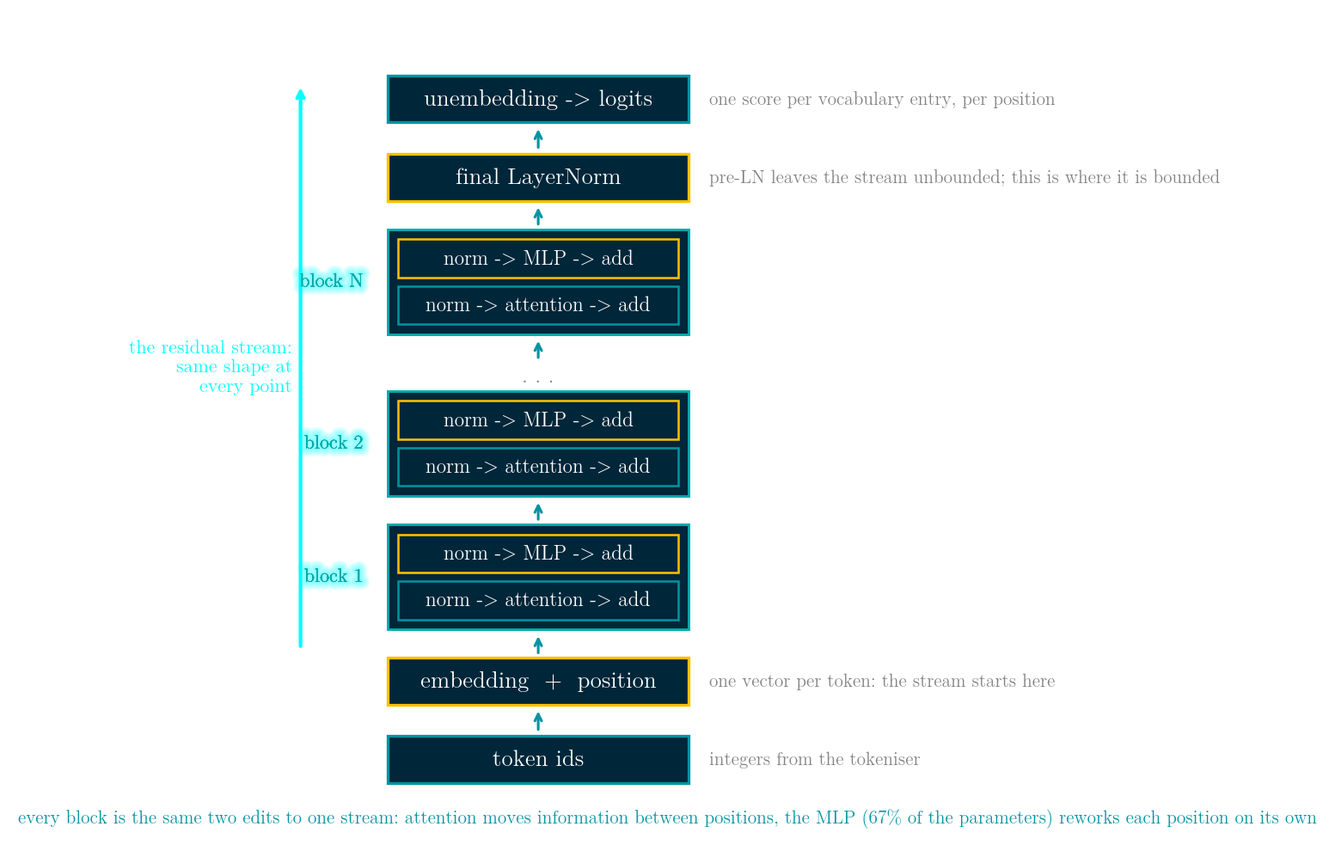
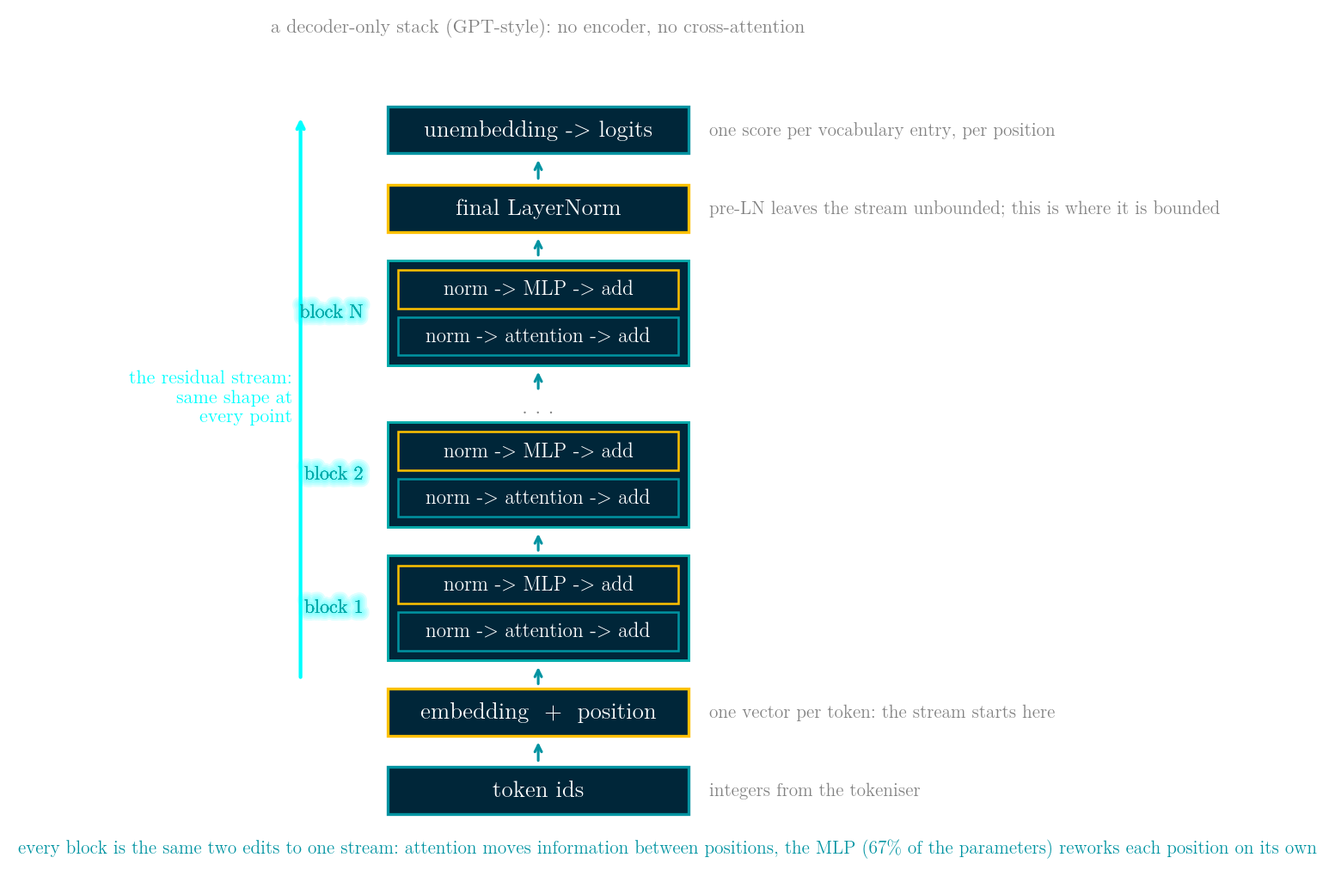
update 52 53

diff --git a/day 52 - attention from scratch/medium_en.html b/day 52 - attention from scratch/medium_en.html
@@ -32,6 +32,15 @@ li     { margin: .3em 0; }
 <p>Attention is a weighted average. That is the whole model: for each query position you score every key position, turn those scores into weights that sum to one, and average the value vectors with those weights. Four lines of numpy.</p>
 <p>Everything that is hard about attention is about computing that average without building the thing it is an average over. At a context of 131,072 tokens the score matrix alone is 1,024 GB for a single layer in fp16, which is not a number you can allocate. The KV cache that lets you skip recomputing the past is 64.0 GB for the same context under plain multi-head attention, and 4.5 GB under MLA. Today is the implementation, the two ways it silently goes wrong, and then the four changes that every serving stack makes to it: FlashAttention, PagedAttention, the MQA/GQA/MLA family, and delta-rule linear attention.</p>
 <p>Day 51 turned text into token ids. This is what the model does with them.</p>
+<h2>How attention works, in one picture</h2>
+<img alt="img" src="https://github.com/KingRei/100DaysPython/blob/master/day%2052%20-%20attention%20from%20scratch/imgs/day52_0.png?raw=true">
+<pre><code>attention(Q, K, V) = softmax(Q K^T / sqrt(d)) V</code></pre>
+<p>Read it right to left and it is a weighted average of <code>V</code>; read it left to right and it is four steps, each of which the figure shows with real numbers from a 4-query, 6-key, head-dimension-8 example.</p>
+<p><strong>One score per pair.</strong> Query row 0 is dotted with each of the six key rows, giving six numbers: +0.20, +0.03, -0.26, +0.69, +1.32, -0.12. A dot product is large when two vectors point the same way, so a score says &quot;how much does this query want to read from that position&quot;. Every pair of positions gets one, which is the <code>n x m</code> matrix the whole memory story of this article is about.</p>
+<p><strong>Divide by sqrt(d).</strong> A score is a sum of <code>d</code> products, so its spread grows with the width of the head. Dividing by <code>sqrt(d)</code> keeps the numbers at roughly unit scale whatever <code>d</code> is - measured further down, without it a 4096-wide head puts an average largest weight of 0.9688 on a single key.</p>
+<p><strong>Softmax turns scores into weights.</strong> Exponentiate and divide by the total: the six weights come out as 0.1269, 0.1065, 0.0799, 0.2059, 0.3886, 0.0923. They are non-negative and sum to 1.00, and position 4 - the one with the highest score - gets the most.</p>
+<p><strong>Multiply by V.</strong> The output row is those weights applied to the six value rows: <code>out = 0.1269 v0 + 0.1065 v1 + ... + 0.0923 v5</code>. Because the weights are non-negative and sum to one, the output is a convex combination of the values and can never leave their range. Attention cannot invent a value; it can only decide how much of each existing one to use.</p>
+<p>That is the whole model. <code>Q</code>, <code>K</code> and <code>V</code> are themselves just linear projections of the input, the mask is one extra line, and everything else in this article is about computing that average without ever building the matrix it averages over.</p>
 <h2>One weighted average</h2>
 <pre><code>def attention(Q, K, V, mask=None, scale=None):
     d = Q.shape[-1]

diff --git a/day 52 - attention from scratch/medium_zh.html b/day 52 - attention from scratch/medium_zh.html
@@ -32,6 +32,15 @@ li     { margin: .3em 0; }
 <p>Attention 就是一個加權平均。整個模型就這件事：每個 query 位置對每個 key 位置算一個分數，把分數變成加總為 1 的權重，再用這些權重去平均 value 向量。四行 numpy。</p>
 <p>難的地方全部不在那條式子，而在「怎麼把這個平均算出來，又不要真的把它要平均的那個東西生出來」。context 長到 131,072 個 token 時，光是一層的分數矩陣在 fp16 下就是 1,024 GB，那不是一個你配置得出來的數字；而讓你不用重算過去的 KV cache，同樣的 context 下用一般的 multi-head attention 是 64.0 GB，用 MLA 是 4.5 GB。今天先把 attention 實作出來，看它兩種不會報錯的壞法，然後看所有推論系統都會對它做的四個改動：FlashAttention、PagedAttention、MQA/GQA/MLA 這一家，以及 delta rule 這種線性 attention。</p>
 <p>Day 51 把文字變成 token id，今天是模型拿到這些 id 之後做的事。</p>
+<h2>一張圖看懂 attention 在做什麼</h2>
+<img alt="img" src="https://github.com/KingRei/100DaysPython/blob/master/day%2052%20-%20attention%20from%20scratch/imgs/day52_0.png?raw=true">
+<pre><code>attention(Q, K, V) = softmax(Q K^T / sqrt(d)) V</code></pre>
+<p>從右往左讀，它就是一個對 <code>V</code> 的加權平均；從左往右讀，它是四個步驟，而圖上每一步都用真實數字跑過一次（4 個 query、6 個 key、head dimension 8）。</p>
+<p><strong>每一對位置一個分數。</strong> 第 0 列的 query 跟六個 key 各做一次內積，得到六個數字：+0.20、+0.03、−0.26、+0.69、+1.32、−0.12。內積在兩個向量方向一致時比較大，所以一個分數講的是「這個 query 有多想讀那個位置」。每一對位置都會有一個，這就是本文後面整篇在算的那個 <code>n x m</code> 矩陣。</p>
+<p><strong>除以 sqrt(d)。</strong> 一個分數是 <code>d</code> 個乘積的和，所以 head 越寬它散得越開。除以 <code>sqrt(d)</code> 可以讓數字不管 <code>d</code> 多大都維持在大約單位尺度——後面量到的是：不除的話，4096 寬的 head 平均會把 0.9688 的權重壓在單一個 key 上。</p>
+<p><strong>softmax 把分數變成權重。</strong> 取指數再除以總和，六個權重變成 0.1269、0.1065、0.0799、0.2059、0.3886、0.0923。它們非負、加總剛好是 1.00，而分數最高的位置 4 拿到最多。</p>
+<p><strong>乘上 V。</strong> 輸出那一列就是用這些權重去加權六列 value：<code>out = 0.1269 v0 + 0.1065 v1 + … + 0.0923 v5</code>。因為權重非負而且加總為 1，輸出是 value 的凸組合，永遠跑不出它們的範圍。attention 生不出新的值，它只能決定每一個既有的值要用多少。</p>
+<p>整個模型就這樣。<code>Q</code>、<code>K</code>、<code>V</code> 本身只是輸入的線性投影，mask 只是多一行，而這篇文章後面全部的內容，都是在講「怎麼把這個平均算出來，又不要真的把它要平均的那個矩陣生出來」。</p>
 <h2>一個加權平均</h2>
 <pre><code>def attention(Q, K, V, mask=None, scale=None):
     d = Q.shape[-1]

diff --git a/day 53 - multi-head attention and the transformer block/medium_zh.html b/day 53 - multi-head attention and the transformer block/medium_zh.html
@@ -35,7 +35,7 @@ li     { margin: .3em 0; }
 <p>Day 52 做的是 attention 本身，今天是包著它的那一層和那個 block。</p>
 <h2>整個架構長什麼樣，以及為什麼是這個樣子</h2>
 <img alt="img" src="https://github.com/KingRei/100DaysPython/blob/master/day%2053%20-%20multi-head%20attention%20and%20the%20transformer%20block/imgs/day53_0.png?raw=true">
-<p>token id 進來，embedding 把每個 token 變成一個向量，N 個長得一模一樣的 block 輪流在這組向量上「改一點東西」，最後一個 LayerNorm 把它收住，unembedding 再把每個向量變成「每個詞表項目一個分數」。這裡真正在做事的只有五個設計決定，而每一個都換到很具體的東西。</p>
+<p>這是 <strong>decoder-only</strong> 的堆疊，也就是 GPT 這一類語言模型的長相。2017 年那篇論文還有一個 encoder，而且每個 decoder block 裡多一層 cross-attention 去讀 encoder 的輸出——那是翻譯模型需要的東西；只要模型做的事是「把自己的文字接下去」，這兩樣就都會被拿掉，剩下的就是上面這張圖。token id 進來，embedding 把每個 token 變成一個向量，N 個長得一模一樣的 block 輪流在這組向量上「改一點東西」，最後一個 LayerNorm 把它收住，unembedding 再把每個向量變成「每個詞表項目一個分數」。這裡真正在做事的只有五個設計決定，而每一個都換到很具體的東西。</p>
 <p><strong>一條固定寬度的流。</strong> 每個 block 吃 <code>(n, d_model)</code>、吐 <code>(n, d_model)</code>——後面量的例子就是 <code>(16, 64)</code> 進、<code>(16, 64)</code> 出。「疊 32 層」因此只是一句話而不是一次重新設計：只有一種形狀要實作、只有一種形狀要切到多張卡上、而且任何地方都插得進一個新層。</p>
 <p><strong>block 是往流上「加」而不是「換掉」。</strong> 一個輸出全零的分支會讓模型完全不變，所以新加的 block 一開始就是什麼都不做，它只需要學一個修正量。代價是這條流變成一個連加、會隨深度長大——後面量到 32 層從 32.0 長到 197.0——而那些 normalisation 和初始化縮放存在的理由就是控制這件事。</p>
 <p><strong>位置之間的資訊只在一個地方交換。</strong> 整個堆疊裡只有 attention 會去讀別的位置；MLP、norm、unembedding 全都是一次只處理一個位置。光是這一條限制就決定了三件事：一個 causal mask 就足以讓模型變成自迴歸的、KV cache 之所以可能（只有 attention 會回頭看），以及成本為什麼會乾淨地分成「跟 context 成正比」和「跟 context 平方成正比」兩半。</p>

diff --git a/day 53 - multi-head attention and the transformer block/medium_en.html b/day 53 - multi-head attention and the transformer block/medium_en.html
@@ -35,7 +35,7 @@ li     { margin: .3em 0; }
 <p>Day 52 built attention. This is the layer and the block around it.</p>
 <h2>The shape of the whole thing, and why it is that shape</h2>
 <img alt="img" src="https://github.com/KingRei/100DaysPython/blob/master/day%2053%20-%20multi-head%20attention%20and%20the%20transformer%20block/imgs/day53_0.png?raw=true">
-<p>Token ids come in, one vector per token comes out of the embedding, N identical blocks each edit that set of vectors, a final LayerNorm bounds it, and an unembedding turns each vector into one score per vocabulary entry. Five design decisions do all the work here, and each one buys something specific.</p>
+<p>This is the decoder-only stack - what GPT-style language models are. The 2017 paper also had an encoder and a cross-attention sub-layer in each decoder block, which is what a translation model needs; a model that only continues its own text drops both, and what is left is the picture above. Token ids come in, one vector per token comes out of the embedding, N identical blocks each edit that set of vectors, a final LayerNorm bounds it, and an unembedding turns each vector into one score per vocabulary entry. Five design decisions do all the work here, and each one buys something specific.</p>
 <p><strong>One stream of a fixed width.</strong> Every block takes <code>(n, d_model)</code> and returns <code>(n, d_model)</code> - measured below, <code>(16, 64)</code> in and <code>(16, 64)</code> out. That is what makes &quot;stack 32 of them&quot; a sentence rather than a redesign: there is exactly one shape to implement, one shape to shard across devices, and one place where a new layer can be inserted.</p>
 <p><strong>Blocks add to the stream instead of replacing it.</strong> A branch that outputs zero leaves the model exactly as it was, so a new block starts as a no-op and only has to learn a correction. The price is that the stream is a running sum and grows with depth - from 32.0 to 197.0 over 32 blocks in the measurement further down - which is what the normalisations and the initialisation scaling are there to control.</p>
 <p><strong>Information crosses between positions in exactly one place.</strong> Attention is the only operation in the whole stack that reads other positions; the MLP, the norms and the unembedding all work on one position at a time. That single restriction is why a causal mask is enough to make the model autoregressive, why a KV cache is possible at all (only attention looks back), and why the cost model splits so cleanly into a part linear in the context and a part quadratic in it.</p>

diff --git a/day 52 - attention from scratch/imgs/make_figs.py b/day 52 - attention from scratch/imgs/make_figs.py
@@ -44,6 +44,56 @@ def bars(ax, x0, base, bw, gap, vals, cols, labs, maxh, top=None):
             text(ax, x + bw / 2, base + hh + .22, labs[i], color=cols[i], size=11.5)
 
 
+# ---------------------------------------------------------------- figure 0
+def fig0():
+    """How one output row is produced: scores, softmax, weighted average."""
+    fig, ax = W(6.2)
+    Q, K, V, out, w = A.toy_attention()
+    d = Q.shape[1]
+    scores = Q[0] @ K.T / math.sqrt(d)
+    m = K.shape[0]
+    cw, X0 = 1.18, 1.95
+    text(ax, 5.0, 6.35, 'attention(Q, K, V)  =  softmax( Q K$^{T}$ / $\\sqrt{d}$ ) V',
+         color=TEAL_L, size=16, glowing=False)
+    text(ax, 5.0, 5.82, 'one output row, step by step: query 0 against 6 keys, head '
+                        f'dimension {d}', color=GREY_L, size=11.5, glowing=False)
+    box(ax, 0.35, 4.55, 1.35, 0.55, label='query 0', edge=AMBER, lw=1.7)
+    for j in range(m):
+        box(ax, X0 + j * cw, 4.55, cw * 0.86, 0.55, label=f'key {j}', edge=TEAL, lw=1.5)
+    text(ax, 1.02, 4.12, 'dot product', color=AMBER, size=11, glowing=False)
+    for j in range(m):
+        ax.annotate('', xy=(X0 + j * cw + cw * 0.43, 3.92), xytext=(1.02, 4.40),
+                    arrowprops=dict(arrowstyle='->', color=AMBER, lw=1.0, alpha=.55))
+    text(ax, 1.55, 3.62, 'score / $\\sqrt{d}$', color=TEAL, size=11.5, ha='right',
+         glowing=False)
+    for j in range(m):
+        text(ax, X0 + j * cw + cw * 0.43, 3.62, f'{scores[j]:+.2f}', color=TEAL_L,
+             size=12)
+    text(ax, 1.55, 3.12, 'softmax', color=TEAL, size=11.5, ha='right', glowing=False)
+    for j in range(m):
+        ax.annotate('', xy=(X0 + j * cw + cw * 0.43, 3.24),
+                    xytext=(X0 + j * cw + cw * 0.43, 3.42),
+                    arrowprops=dict(arrowstyle='->', color=TEAL, lw=1.1, alpha=.6))
+    base, maxh = 1.55, 1.35
+    for j in range(m):
+        hh = maxh * w[0, j] / w[0].max()
+        x = X0 + j * cw + cw * 0.10
+        ax.add_patch(Rectangle((x, base), cw * 0.66, hh, facecolor=TEAL,
+                               edgecolor=TEAL, lw=1.2, alpha=.85, zorder=3))
+        text(ax, x + cw * 0.33, base + hh + 0.24, f'{w[0, j]:.4f}', color=TEAL_L,
+             size=11.5)
+        text(ax, x + cw * 0.33, base - 0.26, f'v {j}', color=GREY_L, size=11,
+             glowing=False)
+    text(ax, 1.55, base + 0.55, 'weight', color=TEAL, size=11.5, ha='right',
+         glowing=False)
+    text(ax, 5.0, 0.92, f'the six weights sum to {w[0].sum():.2f}, so the output row is '
+                        f'a weighted average of the six value rows',
+         color=TEAL, size=11.5, glowing=False)
+    text(ax, 5.0, 0.46, 'attention cannot invent a value - it only decides how much of '
+                        'each one to use', color=CYAN, size=12.5)
+    save(fig, 'day52_0.png')
+
+
 # ---------------------------------------------------------------- figure 1
 def fig1():
     """The weight matrix: one number per pair, every row a distribution."""
@@ -238,6 +288,6 @@ def fig6():
 
 
 if __name__ == '__main__':
-    for f in (fig1, fig2, fig3, fig4, fig5, fig6):
+    for f in (fig0, fig1, fig2, fig3, fig4, fig5, fig6):
         f()
         print(f.__name__, 'ok')

diff --git a/day 53 - multi-head attention and the transformer block/imgs/make_figs.py b/day 53 - multi-head attention and the transformer block/imgs/make_figs.py
@@ -91,6 +91,8 @@ def fig0():
                 arrowprops=dict(arrowstyle='->', color=CYAN, lw=2.2))
     text(ax, SX - W2 / 2 - 1.15, (ytop + y) / 2, 'the residual stream:\nsame shape at\nevery point',
          color=CYAN, size=11.5, ha='right')
+    text(ax, SX, y + 0.95, 'a decoder-only stack (GPT-style): no encoder, no cross-attention',
+         color=GREY_L, size=11.5, glowing=False)
     p = T.block_params(4096)
     text(ax, 5.0, 0.18,
          f'every block is the same two edits to one stream: attention moves information '

diff --git a/ROADMAP.md b/ROADMAP.md
@@ -112,7 +112,7 @@
 | Day | 主題 | 備註 |
 |---|---|---|
 | 51 | BPE Tokenizer 從零實作 ✅ | **本日核心：模型從來沒看過你的文字，它看到的是一串整數，而決定那串整數長什麼樣的是一份「照順序重播」的合併清單**。開場即結論：`tokens` 要 **3 個 token**、` tokens`（前面一個空格）只要 **1 個**——開頭的空格對 tokenizer 不是空白而是詞的一部分。一句話四種長度："the cost of a model call is counted in tokens" ＝ **10 詞／45 字元／45 位元組／12 token**，四個互相算不出來，而計費與 context window 用的是最後一個；`call` 被切成 ` ca`＋`ll`（語料沒讓 ` call` 合併），**模型永遠看不到 call 這個詞**。**byte-level 的意義**：256 個位元組全在 vocab 裡 ⇒ 沒有 unknown token，代價轉嫁到長度：'a' 1 byte 1 token、'é' 2、'模' 3、'🙂' 4；中文句 13 字元／39 bytes／**32 token** vs 英文句 38 字元／38 bytes／**17 token**＝**1.9 倍**，每字元 2.46 vs 0.45＝**5.5 倍**。**訓練三行**：數相鄰 pair、合併最高票、重複。前八輪 ' t'(41)／'en'(29)／'er'(29)／' i'(26)／' th'(21)／'co'(20)／'ok'(17)／'oken'(16)；第五輪起「合併疊合併」、第八輪是兩個合併符號再合併；**143 次合併後停**（vocab 399），因為沒有 pair 再出現第二次。**#1 最高票通常不只一個**：143 步裡 **123 步（86%）平手**，第一次就在第 2 步（'en' 與 'er' 都是 29）。挑哪個都合理，但挑完那一對附近的計數會變、兩個 tokenizer 從此分家（換別的平手規則：141–143 次合併、500–504 個 token，**壓縮只差幾個 token 不是「一樣好」**） ⇒ **平手規則是規格不是細節**（本檔取 id 最小：`key=(count, -a, -b)`），沒有它 vocabulary 會跟 dict 插入順序跑。→ LC 692。**#2 編碼是照 rank 重播不是最長匹配**：' counted' 8 bytes 依序套用第 6/15/19/25/32/34 號合併 → 2 個 token；**只給 token 字串表、用最長匹配切會得到不同輸出**，所以隨模型發佈的是有順序的合併清單。**#3 逐 token 解碼**：'模型看到的' 15 bytes／13 token，**12 個單獨不是合法 UTF-8**；先接起來再 decode 一次得原文，一個一個 decode 再接得到一排替換字元，而 `errors='replace'` 正是它不丟例外的原因（逐 token 串流最常撞到，正解是把不完整的位元組留在手上）。**最該測的性質是 round trip**（check() 另外還驗五件事：id 連續、合併 token＝兩個來源接起來、重跑同一份清單等）。**#4 pre-tokenise 的 regex 決定什麼可以當 token**：拿掉它（整份當一塊）壓縮幾乎一樣（0.3934 vs 0.3918），但 **144 個合併裡有 12 個產生中間夾空格的 token**（' is not '、't in'、't is '、' the tokeniz'）vs 有 regex 時 **0 個**；那種 token 讓一個詞取決於後面接什麼 ⇒ 同一個詞不同 id、模型要學兩次。數字規則 `\d{1,3}` ⇒ '128'→2、'1280'→3、'128000'→3 個 token＝模型算術怪的來源。**vocab 曲線**：256/300/350/399 → tokens/byte 1.0000/0.6011/0.4687/**0.3918**（短了 61%），greedy 先拿大的所以會變平。**接 Day 38**：Huffman 合併**最不常**的兩個符號（這些位元組 4.6928 bits/byte，1,276→749 bytes，字母表不變、編碼變短）；BPE 合併**最常**的那一對（1,276 bytes→500 token，序列變短、字母表長到 399）。同一個貪婪動作、次數表的兩端、兩個不可互換的目標。**LC 692**：最高票 k 個、平手照字母序；一個 key 裝兩條規則 `(-count, word)`；**heap 版要把兩個欄位同時反過來**（淘汰「次數最少、同次數字母序最後」），普通 tuple 做不到，要包一層反 `__lt__` 的類別。**LC 394**：一個 stack，每個 `[` 推「目前的 cur」與「等著它的次數」，`]` 才展開；兩個坑＝`num = num*10 + d`（多位數）與 `]` 之後字元接回同一個 buffer。**實作踩點**：`pretokenize/train/encode` 都吃 `pattern=` 參數而不是改模組全域（notebook 的 cell 沒有 `import bpe` 可用，改全域會炸）；demo 的 token 條要依總寬度縮放（12 個 token 直接畫會衝出 9.8）；**圖裡不能放 CJK**（Liberation Serif／Latin Modern 都沒有該字形，會變方框），day51_5 改用 '€5 café €9' 示範同一件事（15 bytes／13 token／8 個單獨非法），**文章要加一句說明圖換了例子**，否則內文的 12 跟圖上的 8 會打架。**verifier 另抓到**：LC692 第二個例子（the4/is3/sunny2/day1）根本沒有平手，demo 旁白原本寫「is 和 sunny 都 2 次」是錯的；「tokenizer 是模型裡唯一不是梯度下降學的一層」要改成「整條流程裡唯一不是梯度下降學的部分」（它不是 layer，而且 RoPE／sampler 也不是學的）；LC394 的空間是 O(輸出長度) 不是 O(巢狀深度)；「普通 tuple 做不到」要限定成「`(count, word)` 這種 tuple 做不到」。→ 後面用得到：Attention 吃的就是這裡吐出來的整數序列；而「合併清單要照順序重播」這個形狀，在之後任何「學到的表要跟模型一起發佈」的地方都會再出現 |
-| 52 | Attention、FlashAttention、PagedAttention 與 MLA ✅ | **本日核心：attention 就是一個加權平均，貴的東西全部來自「每一對位置一格」——所以整天在做的是「怎麼算出這個平均，又不要把它要平均的那個東西生出來」**。四行：`scores = Q@K.T/sqrt(d)` → mask → softmax → `w@V`；每一列非負且加總為 1 ⇒ 輸出永遠是 V 的凸組合（V 範圍 [-0.634,-1.504,-1.052]..[1.107,0.519,1.721]，out 只到 [0.332,-0.667,-0.07]..[0.42,-0.24,0.112]）＝**attention 生不出新的值，只能決定每個舊的值用多少**。**silent failure #1：exp 吃大數**——fp32 上限 3.403e+38 而 exp(89) 已 inf、fp16 上限 65504 而 exp(12) 已 inf，`softmax_naive([1000,1001,999])` 回 nan（inf/inf），減列最大值是**精確恆等式不是近似**（c 在分子分母抵消）→ [0.2447,0.6652,0.09]；fp16 只要 logit 12 就踩到。**除 sqrt(d) 是量出來的**：d=8/64/512/4096 的分數標準差 2.846/7.911/22.563/64.109 貼著 sqrt(d) 2.83/8/22.63/64，平均最大權重未縮放 0.3221/0.7067/0.9048/**0.9688**（＝argmax，其他 key 幾乎拿不到梯度）、除過之後 0.0437/0.0404/0.0423/0.0428（寬度差 512 倍仍在 0.04）。**#2：mask 放 softmax 之後**——列和從全 1 變成 [0.0504,0.5048,0.0618,0.9274,0.826,1.]，第 0 列只看得到自己卻只帶 0.0504，**每個早的位置被「它不准看的未來」等比例壓小，不報錯、不是 nan、形狀全對、loss 照降**。**FlashAttention＝online softmax**：一塊一塊走 K/V，每列只帶 running max 與 running sum，最大值一變就把已累積的乘 `exp(old_max-new_max)`；block 1/8/32/128/256 與完整矩陣差 6.661e-16/3.886e-16/3.608e-16/3.886e-16/4.996e-16＝**精確改寫不是近似**（所以沒有「準確度」那一欄要查，改的只有記憶體與速度）。**二次方帳單**（fp16、32 head）：context 1,024/4,096/16,384/131,072 的分數矩陣一層 0.06/1.00/16.00/**1024.00 GB**（32 層 2.0/32.0/512.0/32768.0 GB），context×4 則×16；FlashAttention 消掉的是**儲存**不是工作量（記憶體變線性、算術仍二次方）。**PagedAttention＝配置器問題**：8 條序列共 3,509 token、每條可能長到 4,096 ⇒ 連續配置保留 32,768 格、**89.3% 空的**；每頁 16/64/256 → 浪費 1.2%(222 頁)/7.1%(59)/**27.9%(19)**，剩下的浪費只有「最後一頁的尾巴」最多 page_size−1 格 ⇒ **頁太大浪費會回來**（頁大小是在尾巴與頁表之間選）；代價是 attention 要查頁表，好處是兩條序列可共用前綴頁（＝作業系統的分頁、同一個理由）。**MHA/GQA/MLA/MQA**（32 層、32 head、head_dim 128、fp16）：每 token 524,288/131,072/36,864/16,384 bytes ＝ 128k context 下 64.0/16.0/4.5/2.0 GB（1/4/14.2/32 倍）；**各自放棄什麼才是重點**——MQA 讓 32 個 head 共讀同一份 K/V（head 失去注意不同東西的能力）、GQA 是四個一組的同一個取捨、MLA 每 token 存一個低秩 latent 讀時重建（head 保持相異，代價是讀時多算＋**rotary 的部分要另走一條小路**，因為它摺不進 latent）。四個都還是隨 context 長大。**delta rule＝寫進一個固定大小的狀態**：`S <- S(I-beta k kᵀ) + beta v kᵀ`、讀是 `S@q`（**真正的層用自己的 query 投影讀；`S@k` 只是 recall 探針**），32 層狀態 **32 MB 且永遠 32 MB**；16x16 狀態寫 8/16/17/24/32 對正交 pair → 最差回想誤差 1e-12/1e-12/1.33/1.69/1.87、被蓋掉 0/0/**1**/8/16（d 維空間最多 d 個互相正交的方向；**那個 1e-12 是程式正規化 key 時加的 epsilon 不是浮點雜訊**，別寫成「誤差在浮點等級」），**最新寫的永遠完美（1.8e-12）、死的是舊的**；而這是最好情況——**換成一般隨機 key，8 對就已經有 1.66 的最差誤差**（每次寫入都把已在裡面的抹糊）。⇒ 取捨不是「線性 attention 比較差」而是**常數記憶體 vs 有上限的回想**；gated 版加遺忘係數讓舊關聯衰減而不是等著被蓋掉（**Gated DeltaNet 是每 head 一個純量、per-channel 的對角 gate 是 KDA 才有的，別混成一句**），所以實務上是**跟少數幾層完整 attention 交錯**而不是取代。**LC 239** 單調 deque（新來的又大又新 ⇒ 尾巴上比它小的永遠出局；每個 index 進出各一次 ⇒ O(n)、狀態 O(k)）＝**online softmax 的同一招**（帶一個數字而不是整列，數字一變就補正）；brute force `O(n*k)` 在 n=1e5 是 1e10 次、heap 要 O(n log k) 得能刪掉離開視窗的那個。**LC 703** size-k min-heap（堆頂＝第 k 大，比堆頂小的一進來就丟）；**陷阱是用哪一種 heap**——全部丟進 max-heap 也答得對，但記憶體 O(n)、每次 O(k log n)，**會過測試而且是對這題的錯誤答案**。**工程紀律（這天真的踩到）**：`main()` 原本共用一條 `rng`，導致 demo/圖的生成腳本另外呼叫時拿到**不同的數字**（SCALE 0.3047 vs 0.3070、FLASH 5.551e-16 vs 1.221e-15）；修法是把每張表抽成**自己 seed 的函式**（`toy_attention/scale_table/causal_demo/flash_table`）給 main、make_figs、demo 常數產生器共用，而且 `scale_table` 必須**per-d seed**（`default_rng([seed, d])`），否則四列的表和十一點的曲線在共用的 d 上會對不起來。demokit：legend 是 `[hex, {zh,en}]` **不是 `{c,t}`**、variants 是 `{zh,en}` 清單且每個 variant 的程式碼要靠 `get code(){ return curV()===0 ? A : B; }`、表格排成直的會掉出 view（6.4）⇒ 改橫排。→ 後面用得到：KV cache 的分頁與前綴共用、投機解碼要帶著的那份 state、以及任何「一趟掃完、狀態有上限」的 streaming 演算法 |
+| 52 | Attention、FlashAttention、PagedAttention 與 MLA ✅ | **開頭先放一張「attention 怎麼運作」的圖（day52_0）＋公式**（Eric 要求）：query 0 對 6 個 key 的分數 +0.20/+0.03/−0.26/+0.69/+1.32/−0.12 → 除 sqrt(d) → softmax → 權重 0.1269/0.1065/0.0799/0.2059/0.3886/0.0923（和 1.00）→ 加權平均 V。**本日核心：attention 就是一個加權平均，貴的東西全部來自「每一對位置一格」——所以整天在做的是「怎麼算出這個平均，又不要把它要平均的那個東西生出來」**。四行：`scores = Q@K.T/sqrt(d)` → mask → softmax → `w@V`；每一列非負且加總為 1 ⇒ 輸出永遠是 V 的凸組合（V 範圍 [-0.634,-1.504,-1.052]..[1.107,0.519,1.721]，out 只到 [0.332,-0.667,-0.07]..[0.42,-0.24,0.112]）＝**attention 生不出新的值，只能決定每個舊的值用多少**。**silent failure #1：exp 吃大數**——fp32 上限 3.403e+38 而 exp(89) 已 inf、fp16 上限 65504 而 exp(12) 已 inf，`softmax_naive([1000,1001,999])` 回 nan（inf/inf），減列最大值是**精確恆等式不是近似**（c 在分子分母抵消）→ [0.2447,0.6652,0.09]；fp16 只要 logit 12 就踩到。**除 sqrt(d) 是量出來的**：d=8/64/512/4096 的分數標準差 2.846/7.911/22.563/64.109 貼著 sqrt(d) 2.83/8/22.63/64，平均最大權重未縮放 0.3221/0.7067/0.9048/**0.9688**（＝argmax，其他 key 幾乎拿不到梯度）、除過之後 0.0437/0.0404/0.0423/0.0428（寬度差 512 倍仍在 0.04）。**#2：mask 放 softmax 之後**——列和從全 1 變成 [0.0504,0.5048,0.0618,0.9274,0.826,1.]，第 0 列只看得到自己卻只帶 0.0504，**每個早的位置被「它不准看的未來」等比例壓小，不報錯、不是 nan、形狀全對、loss 照降**。**FlashAttention＝online softmax**：一塊一塊走 K/V，每列只帶 running max 與 running sum，最大值一變就把已累積的乘 `exp(old_max-new_max)`；block 1/8/32/128/256 與完整矩陣差 6.661e-16/3.886e-16/3.608e-16/3.886e-16/4.996e-16＝**精確改寫不是近似**（所以沒有「準確度」那一欄要查，改的只有記憶體與速度）。**二次方帳單**（fp16、32 head）：context 1,024/4,096/16,384/131,072 的分數矩陣一層 0.06/1.00/16.00/**1024.00 GB**（32 層 2.0/32.0/512.0/32768.0 GB），context×4 則×16；FlashAttention 消掉的是**儲存**不是工作量（記憶體變線性、算術仍二次方）。**PagedAttention＝配置器問題**：8 條序列共 3,509 token、每條可能長到 4,096 ⇒ 連續配置保留 32,768 格、**89.3% 空的**；每頁 16/64/256 → 浪費 1.2%(222 頁)/7.1%(59)/**27.9%(19)**，剩下的浪費只有「最後一頁的尾巴」最多 page_size−1 格 ⇒ **頁太大浪費會回來**（頁大小是在尾巴與頁表之間選）；代價是 attention 要查頁表，好處是兩條序列可共用前綴頁（＝作業系統的分頁、同一個理由）。**MHA/GQA/MLA/MQA**（32 層、32 head、head_dim 128、fp16）：每 token 524,288/131,072/36,864/16,384 bytes ＝ 128k context 下 64.0/16.0/4.5/2.0 GB（1/4/14.2/32 倍）；**各自放棄什麼才是重點**——MQA 讓 32 個 head 共讀同一份 K/V（head 失去注意不同東西的能力）、GQA 是四個一組的同一個取捨、MLA 每 token 存一個低秩 latent 讀時重建（head 保持相異，代價是讀時多算＋**rotary 的部分要另走一條小路**，因為它摺不進 latent）。四個都還是隨 context 長大。**delta rule＝寫進一個固定大小的狀態**：`S <- S(I-beta k kᵀ) + beta v kᵀ`、讀是 `S@q`（**真正的層用自己的 query 投影讀；`S@k` 只是 recall 探針**），32 層狀態 **32 MB 且永遠 32 MB**；16x16 狀態寫 8/16/17/24/32 對正交 pair → 最差回想誤差 1e-12/1e-12/1.33/1.69/1.87、被蓋掉 0/0/**1**/8/16（d 維空間最多 d 個互相正交的方向；**那個 1e-12 是程式正規化 key 時加的 epsilon 不是浮點雜訊**，別寫成「誤差在浮點等級」），**最新寫的永遠完美（1.8e-12）、死的是舊的**；而這是最好情況——**換成一般隨機 key，8 對就已經有 1.66 的最差誤差**（每次寫入都把已在裡面的抹糊）。⇒ 取捨不是「線性 attention 比較差」而是**常數記憶體 vs 有上限的回想**；gated 版加遺忘係數讓舊關聯衰減而不是等著被蓋掉（**Gated DeltaNet 是每 head 一個純量、per-channel 的對角 gate 是 KDA 才有的，別混成一句**），所以實務上是**跟少數幾層完整 attention 交錯**而不是取代。**LC 239** 單調 deque（新來的又大又新 ⇒ 尾巴上比它小的永遠出局；每個 index 進出各一次 ⇒ O(n)、狀態 O(k)）＝**online softmax 的同一招**（帶一個數字而不是整列，數字一變就補正）；brute force `O(n*k)` 在 n=1e5 是 1e10 次、heap 要 O(n log k) 得能刪掉離開視窗的那個。**LC 703** size-k min-heap（堆頂＝第 k 大，比堆頂小的一進來就丟）；**陷阱是用哪一種 heap**——全部丟進 max-heap 也答得對，但記憶體 O(n)、每次 O(k log n)，**會過測試而且是對這題的錯誤答案**。**工程紀律（這天真的踩到）**：`main()` 原本共用一條 `rng`，導致 demo/圖的生成腳本另外呼叫時拿到**不同的數字**（SCALE 0.3047 vs 0.3070、FLASH 5.551e-16 vs 1.221e-15）；修法是把每張表抽成**自己 seed 的函式**（`toy_attention/scale_table/causal_demo/flash_table`）給 main、make_figs、demo 常數產生器共用，而且 `scale_table` 必須**per-d seed**（`default_rng([seed, d])`），否則四列的表和十一點的曲線在共用的 d 上會對不起來。demokit：legend 是 `[hex, {zh,en}]` **不是 `{c,t}`**、variants 是 `{zh,en}` 清單且每個 variant 的程式碼要靠 `get code(){ return curV()===0 ? A : B; }`、表格排成直的會掉出 view（6.4）⇒ 改橫排。→ 後面用得到：KV cache 的分頁與前綴共用、投機解碼要帶著的那份 state、以及任何「一趟掃完、狀態有上限」的 streaming 演算法 |
 | 53 | Multi-Head Attention 與 Transformer Block ✅ | **開頭先放整個架構圖（day53_0）＋「為什麼這樣設計」五條**（Eric 要求）：固定寬度的流讓疊層變成免費、block 是加不是換（新層一開始＝no-op，代價是流會長大）、**整個堆疊只有 attention 會讀別的位置**（causal mask 夠用／KV cache 可能／成本乾淨分兩半）、其餘全逐位置所以訓練可整條序列平行、容量放在逐位置那半（MLP 67%，所以 MoE 換的是 MLP）。**本日核心：一個 block 只有兩個混合器（attention 跨位置、MLP 跨通道），兩者都「加進」同一條形狀不變的殘差流；而今天兩個最常見的寫錯方式，都會交回一個形狀完全正確的陣列**。d_model 64／8 head／16 token：輸入 (16,64) 出來還是 (16,64)，attention 分支的範數是它讀到那條流的 0.354 倍、整個 block 移動 0.772。**h 不花任何參數**：Wq/Wk/Wv/Wo 永遠四個 d_model×d_model（這裡 16,384 個參數），h=1/2/4/8/16/64 只改 d_head 64/32/16/8/4/1 與「每層產生幾個 n×n 權重矩陣」。**head 買到的是「同時做好幾件事」**：目標＝一半通道要前一個 token、一半要第一個 token，兩個 head 在 12 組輸入上都 MSE 0.0；單一 head 停在 **0.1446**（全猜 0 是 0.8746）。**第一版這個實驗是作弊的（verifier 抓到）**：只擬合 row-stochastic 的 A、沒給 head 自己的通道矩陣，而真的 head 有 Wv·Wo＝一個 d×d 矩陣——補上之後 n=d=8 的**單一輸入只要解 (A V) M = target 就能配到 MSE 5.7e-30（A 隨機都行）**，所以必須(1)給它通道矩陣、(2)量多組輸入。改好後的說法是：單一 head 真正做不到的是**對不同通道用不同的注意力矩陣**，不是「只有一個權重矩陣」這種含糊講法。**silent failure #1：head 切錯軸**——正解是 `X.reshape(n,h,d//h).transpose(1,0,2)`（切通道），少了 transpose 的 `X.reshape(h,n,d//h)` **形狀一模一樣**但切位置（head 0 拿到前兩個 token 的全部通道），每個 head 只在半條序列裡做 attention；16×64×8head 下層輸出最大差 **1.911＝輸出範數的 153%**，不報錯、照樣訓練。抓法只有一行 assert：head j == X[:, j*d_head:(j+1)*d_head]。**#2：LayerNorm 的一趟變異數 `E[x²]−E[x]²`**——float32、512 個標準常態值整排加常數：位移 0/100/1,000/10,000/100,000/1,000,000 時兩趟版本 1.019437/1.019437/1.019434/1.019408/1.019417/1.020317（幾乎不動），一趟版本 1.019437/1.018555/1.062500/**−8.000000**/1024.0/0.0；**10,000 就已經是負變異數（開根號 nan），而那時陣列裡還有 475 個相異 float32 值＝壞的是恆等式不是資料**；1e8 以上整份資料才真的被吃掉（所以表格停在 1e6）。在變負之前它是**安靜地壞**：根號裡的 eps 讓它保持有限，只是用錯尺度。**LayerNorm vs RMSNorm**：一列平均 6.925／std 1.943，LN 給平均 2.64e-16／std 1.0000、RMS 給 0.9628／0.2701；整列 +100 時 LN 只動 6.13e-15、RMS 動 0.8014 ⇒ RMSNorm 換到少一次 reduction 與少一組 beta，放棄的是**平移不變性**（兩者都有尺度不變性，而那才是殘差流真的會做的事）。**pre-LN vs post-LN（這節原本想講 warmup，量不出來就改寫了）**：post-LN 把 ‖x‖ 釘在 **32.0＝sqrt(16×64)**（block 最後一步就是 norm；**要註明這是 gamma=1/beta=0 的初始化，學出來的 gamma/beta 會改數字、改不掉「深度被消掉」**），pre-LN 從 37.9 長到 **197.0**；擾動影響 7.505 vs 1.104 看似差 7 倍，但**除以各自的流範數後是 0.0381 vs 0.0345 幾乎一樣** ⇒ **不可以寫成「pre-LN 帶比較多訊號」**，只能寫結構差異（pre-LN 有一條從頭到尾沒被正規化的路）＋引文獻（Xiong 2020），並解釋 pre-LN 堆疊為何一定要補最後一個 LayerNorm。**殘差流是連加**：起點 32.0（＝sqrt(16×64)）、32 層後 181.8＝**5.7 倍**，正好是 sqrt(32)=5.66；**分母要用「輸入時的範數」不是 plain[0]（那是第 1 個 block 之後）**，用錯會寫成 4.6 倍再硬說「接近 5.66」。每個分支乘 1/sqrt(2L) 後只有 **1.12 倍**＝「殘差分支縮放初始化」的全部內容。**帳本**：attention 4d²、MLP 2·d·d_ff ⇒ **每個 block 67% 是 MLP**（768/2048/4096/8192 四種寬度都 67%，所以 MoE 換掉的是 MLP 不是 attention）；FLOP 交叉點 `n = (4d²+2d·d_ff)/(2d)` 在 d_ff=4d 時**永遠是 6·d_model**（4,608／12,288／24,576／49,152），d_model 4096 一個 block 的二次方佔比在 context 512/2,048/8,192/32,768 是 2.0%/7.7%/25.0%/57.1%；**head 數在參數與 FLOP 兩邊都不出現**。**LC 189**（三次反轉就地右轉，k %= n 不能省）＋**它的另一個解法是今天的 bug 鏡像**：沿循環搬必須從 gcd(n,k) 個起點各走一次，[1..6] k=2 只從 0 出發給 [5,2,1,4,3,6]（搬一半、長度型別全對），而 k=1 時 gcd=1 同一段程式碼完全正確 ⇒ 小測資照不出來。**LC 303**（一趟前綴和、每次查詢一次減法；開頭那個 0 讓 left=0 不用特例；會變的兄弟題 LC 307 要 Fenwick＝Day 29）＋**延伸去算變異數就撞上同一條恆等式**：平均 10,000 的 float32 上，200 元素視窗真變異數 1.080859、用 float32 前綴和算是 **28.860555**。**工程紀律**：延續 Day 52，所有亂數表都是自己 seed 的函式（toy/`head_split_demo`/`split_output_gap`/`cancellation_table`/`depth_signal`/`residual_growth`）給 main、make_figs、demo 常數共用；**cancellation_table 第一版用 1e8 當最後一列 → 兩趟版本本身變成 0 而 ZeroDivisionError**（float32 在 1e8 的間距 ~8，資料被完全吃掉），上限改成 1e6 並加一欄「相異值個數」當證據。demokit：`legend` 用 `[hex,{zh,en}]`、variants 用 `{zh,en}` 清單＋`get code()`；fitT 的 anchor:end 標籤太靠左會被縮到 fs 0.15（texttest 會抓），把格子整體右移即可。→ 後面用得到：位置編碼要插在這條殘差流的哪裡、KV cache 存的就是每個 head 的 K/V、而 MoE 換掉的正是這裡佔 67% 的那個 MLP |
 | 54 | 位置編碼：sinusoidal、RoPE、ALiBi | |
 | 55 | 從零訓一個 char-level mini-GPT | 里程碑：能生成文字 |

diff --git a/outputs/medium_src/day52_en.md b/outputs/medium_src/day52_en.md
@@ -10,6 +10,26 @@ Everything that is hard about attention is about computing that average without 
 
 Day 51 turned text into token ids. This is what the model does with them.
 
+## How attention works, in one picture
+
+![img](https://github.com/KingRei/100DaysPython/blob/master/day%2052%20-%20attention%20from%20scratch/imgs/day52_0.png?raw=true)
+
+```
+attention(Q, K, V) = softmax(Q K^T / sqrt(d)) V
+```
+
+Read it right to left and it is a weighted average of `V`; read it left to right and it is four steps, each of which the figure shows with real numbers from a 4-query, 6-key, head-dimension-8 example.
+
+**One score per pair.** Query row 0 is dotted with each of the six key rows, giving six numbers: +0.20, +0.03, -0.26, +0.69, +1.32, -0.12. A dot product is large when two vectors point the same way, so a score says "how much does this query want to read from that position". Every pair of positions gets one, which is the `n x m` matrix the whole memory story of this article is about.
+
+**Divide by sqrt(d).** A score is a sum of `d` products, so its spread grows with the width of the head. Dividing by `sqrt(d)` keeps the numbers at roughly unit scale whatever `d` is - measured further down, without it a 4096-wide head puts an average largest weight of 0.9688 on a single key.
+
+**Softmax turns scores into weights.** Exponentiate and divide by the total: the six weights come out as 0.1269, 0.1065, 0.0799, 0.2059, 0.3886, 0.0923. They are non-negative and sum to 1.00, and position 4 - the one with the highest score - gets the most.
+
+**Multiply by V.** The output row is those weights applied to the six value rows: `out = 0.1269 v0 + 0.1065 v1 + ... + 0.0923 v5`. Because the weights are non-negative and sum to one, the output is a convex combination of the values and can never leave their range. Attention cannot invent a value; it can only decide how much of each existing one to use.
+
+That is the whole model. `Q`, `K` and `V` are themselves just linear projections of the input, the mask is one extra line, and everything else in this article is about computing that average without ever building the matrix it averages over.
+
 ## One weighted average
 
 ```python

diff --git a/outputs/medium_src/day52_zh.md b/outputs/medium_src/day52_zh.md
@@ -10,6 +10,26 @@ Attention 就是一個加權平均。整個模型就這件事：每個 query 位
 
 Day 51 把文字變成 token id，今天是模型拿到這些 id 之後做的事。
 
+## 一張圖看懂 attention 在做什麼
+
+![img](https://github.com/KingRei/100DaysPython/blob/master/day%2052%20-%20attention%20from%20scratch/imgs/day52_0.png?raw=true)
+
+```
+attention(Q, K, V) = softmax(Q K^T / sqrt(d)) V
+```
+
+從右往左讀，它就是一個對 `V` 的加權平均；從左往右讀，它是四個步驟，而圖上每一步都用真實數字跑過一次（4 個 query、6 個 key、head dimension 8）。
+
+**每一對位置一個分數。** 第 0 列的 query 跟六個 key 各做一次內積，得到六個數字：+0.20、+0.03、−0.26、+0.69、+1.32、−0.12。內積在兩個向量方向一致時比較大，所以一個分數講的是「這個 query 有多想讀那個位置」。每一對位置都會有一個，這就是本文後面整篇在算的那個 `n x m` 矩陣。
+
+**除以 sqrt(d)。** 一個分數是 `d` 個乘積的和，所以 head 越寬它散得越開。除以 `sqrt(d)` 可以讓數字不管 `d` 多大都維持在大約單位尺度——後面量到的是：不除的話，4096 寬的 head 平均會把 0.9688 的權重壓在單一個 key 上。
+
+**softmax 把分數變成權重。** 取指數再除以總和，六個權重變成 0.1269、0.1065、0.0799、0.2059、0.3886、0.0923。它們非負、加總剛好是 1.00，而分數最高的位置 4 拿到最多。
+
+**乘上 V。** 輸出那一列就是用這些權重去加權六列 value：`out = 0.1269 v0 + 0.1065 v1 + … + 0.0923 v5`。因為權重非負而且加總為 1，輸出是 value 的凸組合，永遠跑不出它們的範圍。attention 生不出新的值，它只能決定每一個既有的值要用多少。
+
+整個模型就這樣。`Q`、`K`、`V` 本身只是輸入的線性投影，mask 只是多一行，而這篇文章後面全部的內容，都是在講「怎麼把這個平均算出來，又不要真的把它要平均的那個矩陣生出來」。
+
 ## 一個加權平均
 
 ```python

diff --git a/outputs/medium_src/day53_zh.md b/outputs/medium_src/day53_zh.md
@@ -16,7 +16,7 @@ Day 52 做的是 attention 本身，今天是包著它的那一層和那個 bloc
 
 ![img](https://github.com/KingRei/100DaysPython/blob/master/day%2053%20-%20multi-head%20attention%20and%20the%20transformer%20block/imgs/day53_0.png?raw=true)
 
-token id 進來，embedding 把每個 token 變成一個向量，N 個長得一模一樣的 block 輪流在這組向量上「改一點東西」，最後一個 LayerNorm 把它收住，unembedding 再把每個向量變成「每個詞表項目一個分數」。這裡真正在做事的只有五個設計決定，而每一個都換到很具體的東西。
+這是 **decoder-only** 的堆疊，也就是 GPT 這一類語言模型的長相。2017 年那篇論文還有一個 encoder，而且每個 decoder block 裡多一層 cross-attention 去讀 encoder 的輸出——那是翻譯模型需要的東西；只要模型做的事是「把自己的文字接下去」，這兩樣就都會被拿掉，剩下的就是上面這張圖。token id 進來，embedding 把每個 token 變成一個向量，N 個長得一模一樣的 block 輪流在這組向量上「改一點東西」，最後一個 LayerNorm 把它收住，unembedding 再把每個向量變成「每個詞表項目一個分數」。這裡真正在做事的只有五個設計決定，而每一個都換到很具體的東西。
 
 **一條固定寬度的流。** 每個 block 吃 `(n, d_model)`、吐 `(n, d_model)`——後面量的例子就是 `(16, 64)` 進、`(16, 64)` 出。「疊 32 層」因此只是一句話而不是一次重新設計：只有一種形狀要實作、只有一種形狀要切到多張卡上、而且任何地方都插得進一個新層。
 

diff --git a/outputs/medium_src/day53_en.md b/outputs/medium_src/day53_en.md
@@ -16,7 +16,7 @@ Day 52 built attention. This is the layer and the block around it.
 
 ![img](https://github.com/KingRei/100DaysPython/blob/master/day%2053%20-%20multi-head%20attention%20and%20the%20transformer%20block/imgs/day53_0.png?raw=true)
 
-Token ids come in, one vector per token comes out of the embedding, N identical blocks each edit that set of vectors, a final LayerNorm bounds it, and an unembedding turns each vector into one score per vocabulary entry. Five design decisions do all the work here, and each one buys something specific.
+This is the decoder-only stack - what GPT-style language models are. The 2017 paper also had an encoder and a cross-attention sub-layer in each decoder block, which is what a translation model needs; a model that only continues its own text drops both, and what is left is the picture above. Token ids come in, one vector per token comes out of the embedding, N identical blocks each edit that set of vectors, a final LayerNorm bounds it, and an unembedding turns each vector into one score per vocabulary entry. Five design decisions do all the work here, and each one buys something specific.
 
 **One stream of a fixed width.** Every block takes `(n, d_model)` and returns `(n, d_model)` - measured below, `(16, 64)` in and `(16, 64)` out. That is what makes "stack 32 of them" a sentence rather than a redesign: there is exactly one shape to implement, one shape to shard across devices, and one place where a new layer can be inserted.
 

diff --git a/day 52 - attention from scratch/README.md b/day 52 - attention from scratch/README.md
@@ -8,6 +8,20 @@ Interactive walkthrough: [demo.html](demo.html) - a single self-contained page
 and the causal mask, the softmax overflow and the 1/sqrt(d), the FlashAttention block
 walk, the memory bill, paged KV allocation, the delta rule, and both LeetCode problems.
 
+![img](https://github.com/KingRei/100DaysPython/blob/master/day%2052%20-%20attention%20from%20scratch/imgs/day52_0.png?raw=true)
+
+```
+attention(Q, K, V) = softmax(Q K^T / sqrt(d)) V
+```
+
+Four steps, shown above with real numbers from a 4-query, 6-key, head-dimension-8 example.
+Query row 0 is dotted with each key row, giving one score per pair (+0.20, +0.03, -0.26,
++0.69, +1.32, -0.12); dividing by `sqrt(d)` keeps those scores at roughly unit scale
+whatever the head width; softmax turns them into non-negative weights that sum to 1.00
+(0.1269, 0.1065, 0.0799, 0.2059, 0.3886, 0.0923); and those weights are applied to the six
+value rows. `Q`, `K` and `V` are themselves linear projections of the input, and the causal
+mask is one extra line.
+
 Attention is a weighted average: score every pair of positions, softmax the scores into
 weights that sum to one, and average the value vectors with those weights. Because each
 row of weights is non-negative and sums to one, the output is always a convex combination
